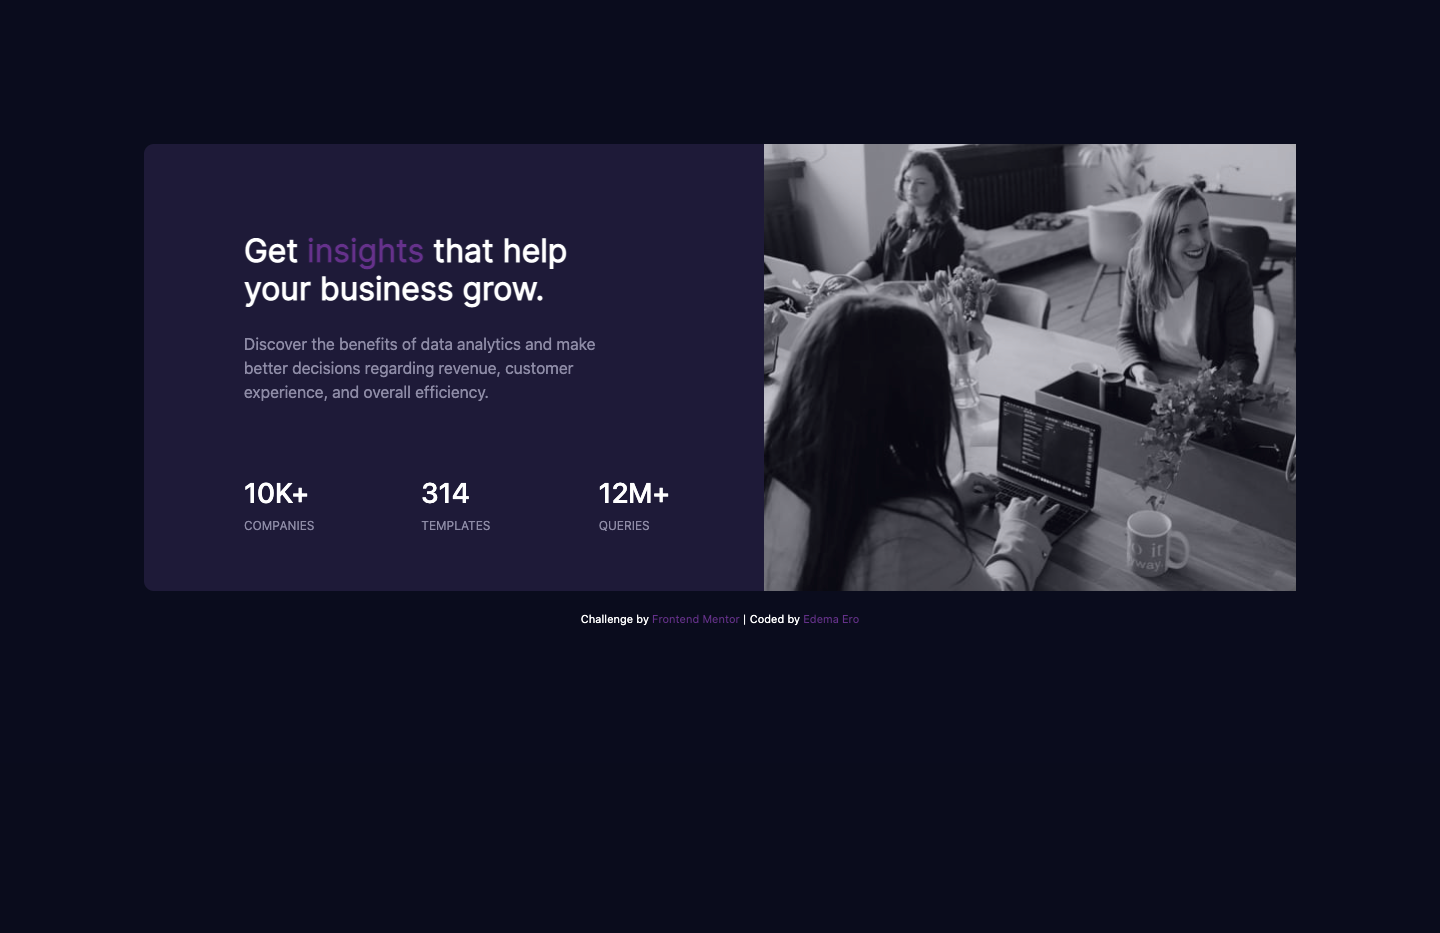
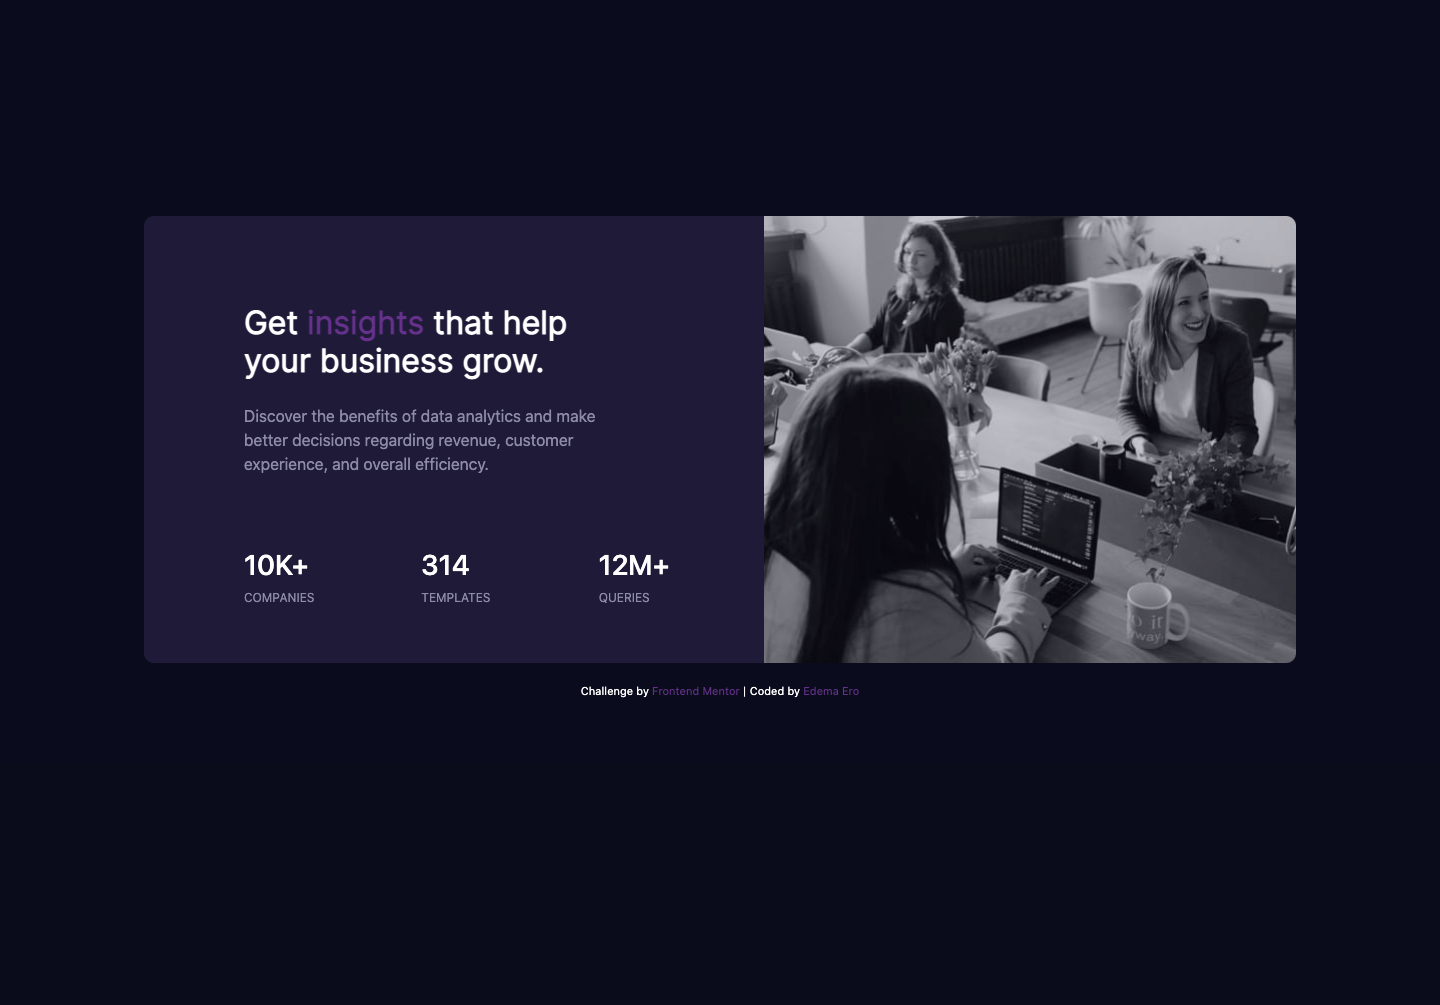
added color overlay to background-image

Changed region(s): [[0.0938, 0.1554, 0.9062, 0.7149], [0.1562, 0.2487, 0.4062, 0.4662]]

diff --git a/style.css b/style.css
@@ -3,7 +3,7 @@ body {
     color: #fff;
 }
 .container {
-    margin-top: 10%;
+    margin-top: 15%;
     width: 80%;
 
 }
@@ -28,7 +28,7 @@ body {
     padding-bottom: 40px;
 }
 .card h2 span {
-    color: #65318b;
+    color: #a76cd2;
 }
 .text-color {
    color: #8e8ba6;
@@ -40,11 +40,17 @@ body {
     -moz-background-size: cover;
     -o-background-size: cover;
     background-size: cover;
-    opacity: 0.75;
     min-height: 300px;
     border-top-right-radius: 10px;
     border-bottom-right-radius: 10px;
+    box-shadow: inset 0 0 0 2000px rgb(122 41 183 / 52%);
 
+}
+
+.image-header::after {
+    content: "";
+    background-color: rgba(255, 0, 0, 0.3);
+    z-index: 4;
 }
 .card-stats h3 {
     text-transform: uppercase;

diff --git a/index.html b/index.html
@@ -16,7 +16,7 @@
   <!-- Feel free to remove these styles or customise in your own stylesheet 👍 -->
   <style>
     .attribution { font-size: 11px; text-align: center; margin-top: 20px;  margin-bottom: 20px;}
-    .attribution a { color:#65318b;text-decoration: none; }
+    .attribution a { color:#a76cd2;text-decoration: none; }
   </style>
 </head>
 <body>
